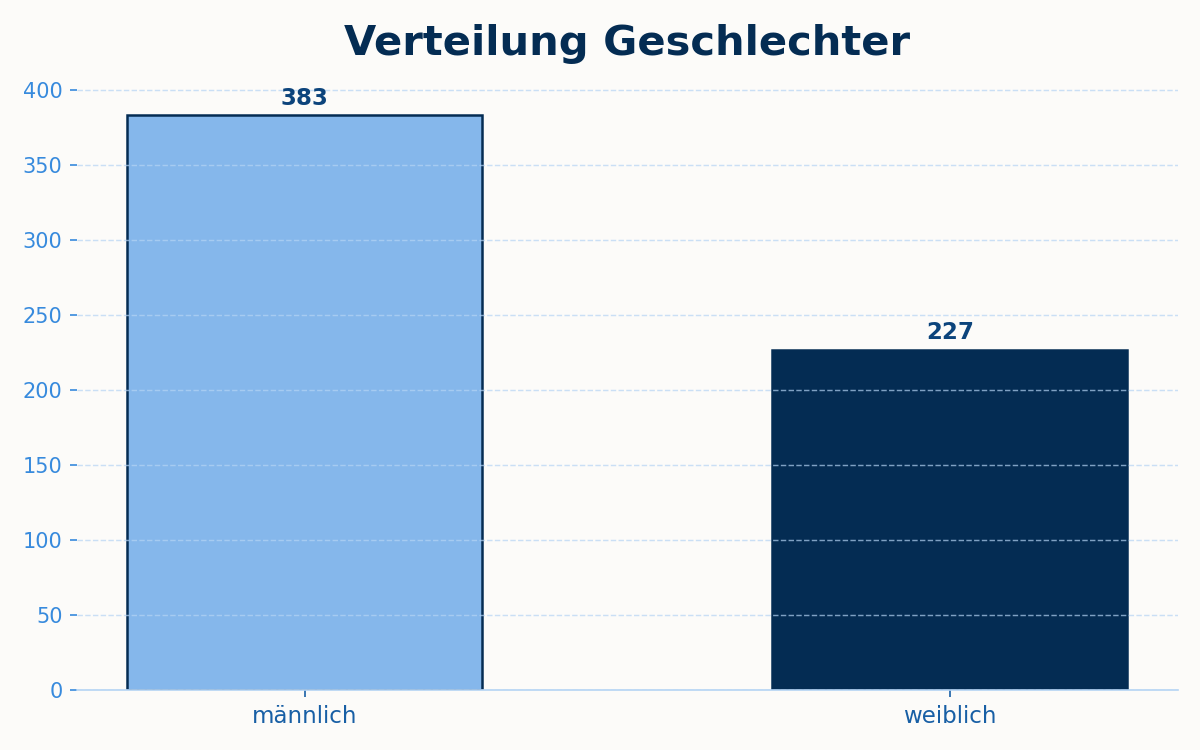
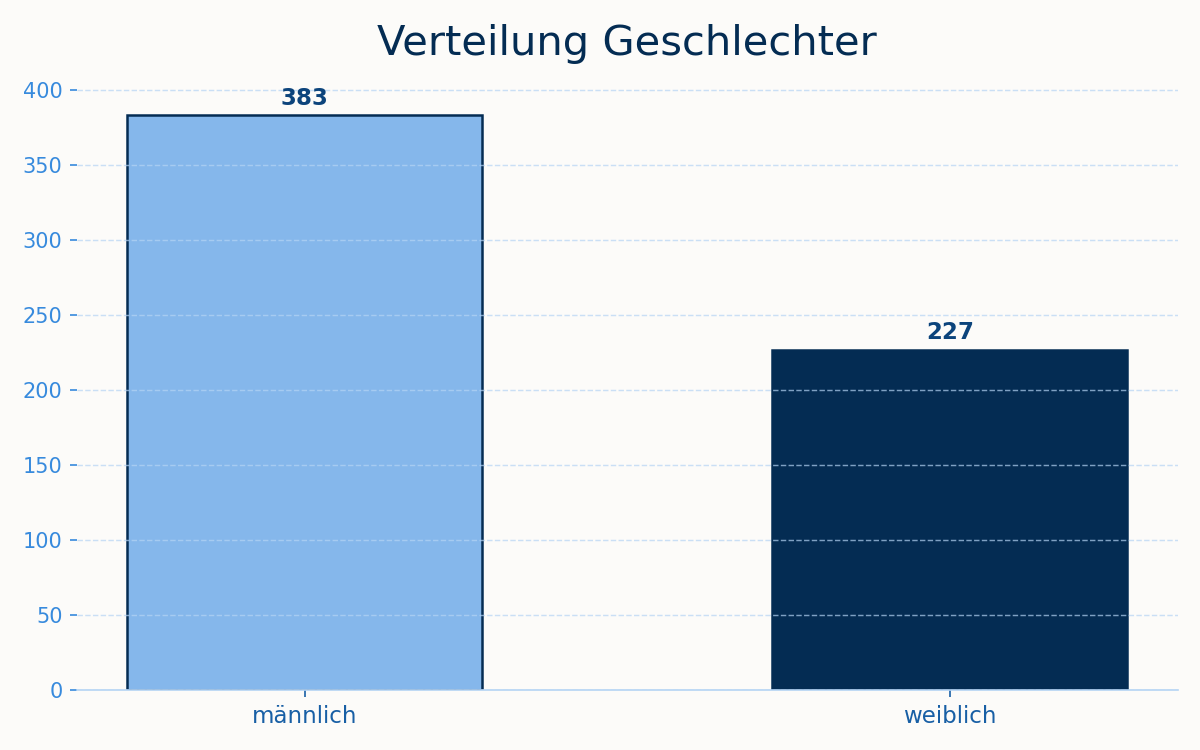
diskussion und lexikon analyse

Changed region(s): [[0.2775, 0.0307, 0.7708, 0.092]]

diff --git a/src/functions.py b/src/functions.py
@@ -157,10 +157,10 @@ def plot_lexikon(ergebnisse: dict):
     ax.set_xticks(x)
     ax.set_xticklabels(kategorien)
     ax.set_ylabel("Häufigkeit pro 1000 Wörter")
-    ax.set_title("Lexikon-Analyse nach Geschlecht")
+    ax.set_title("Lexikon-Analyse nach Geschlecht", fontsize=20, pad=15)
     ax.legend()
-    plt.tight_layout()
-    plt.savefig("../figures/lexikon.png", dpi=150)
+    plt.tight_layout(pad=2)
+    plt.savefig("../figures/lexikon.png", dpi=300)
     plt.show()
 
 # Visualisierungen
@@ -192,7 +192,7 @@ def plot_gender(data):
     ax.tick_params(axis="y", colors="#378ADD", labelsize=10)
     ax.grid(axis="y", color="#B5D4F4", linestyle="--", linewidth=0.7, alpha=0.7)
     ax.yaxis.set_major_formatter(ticker.FuncFormatter(lambda x, _: f"{int(x):,}"))
-    ax.set_title("Verteilung Geschlechter", fontsize=20, fontweight="bold",
+    ax.set_title("Verteilung Geschlechter", fontsize=20,
                  color="#042C53", pad=15)
     plt.tight_layout()
     plt.savefig("../figures/verteilung_geschlechter.png", dpi=150)
@@ -220,7 +220,7 @@ def plot_pmi(pmi_data: dict, top_n: int = 20):
         ax.tick_params(axis="y", colors="#0C447C", labelsize=12)
         ax.grid(axis="x", color="#B5D4F4", linestyle="--", linewidth=0.6, alpha=0.7)
         ax.set_xlabel("PMI (Bits)")
-        ax.set_title(f"Top-Wörter assoziiert mit {'männlichen' if gender == 'männlich' else 'weiblichen'} Wissenschaftler:innen")
+        ax.set_title(f"Top-Wörter assoziiert mit {'männlichen' if gender == 'männlich' else 'weiblichen'} Wissenschaftler:innen", fontsize=20, pad = 15)
         ax.axvline(0, color="#185FA5", linewidth=0.9, linestyle="-")
     x_min = min(ax.get_xlim()[0] for ax in axes)
     x_max = max(ax.get_xlim()[1] for ax in axes)
@@ -277,7 +277,7 @@ def plot_rank_scatter(freq_m: dict, freq_f: dict):
     ax.set_ylabel("log₁₀(Häufigkeit) — weibliche Wissenschaftler",
                   fontsize=11, color="#185FA5", labelpad=8)
     ax.set_title("Worthäufigkeits-Scatter (gemeinsamer Wortschatz)",
-                 fontsize=13, fontweight="bold", color="#042C53", pad=12)
+                 fontsize=20, color="#042C53", pad=15)
 
     rho, p = spearmanr(fm, ff)
     ax.text(0.05, 0.95, f"Spearman ρ = {rho:.2f}",